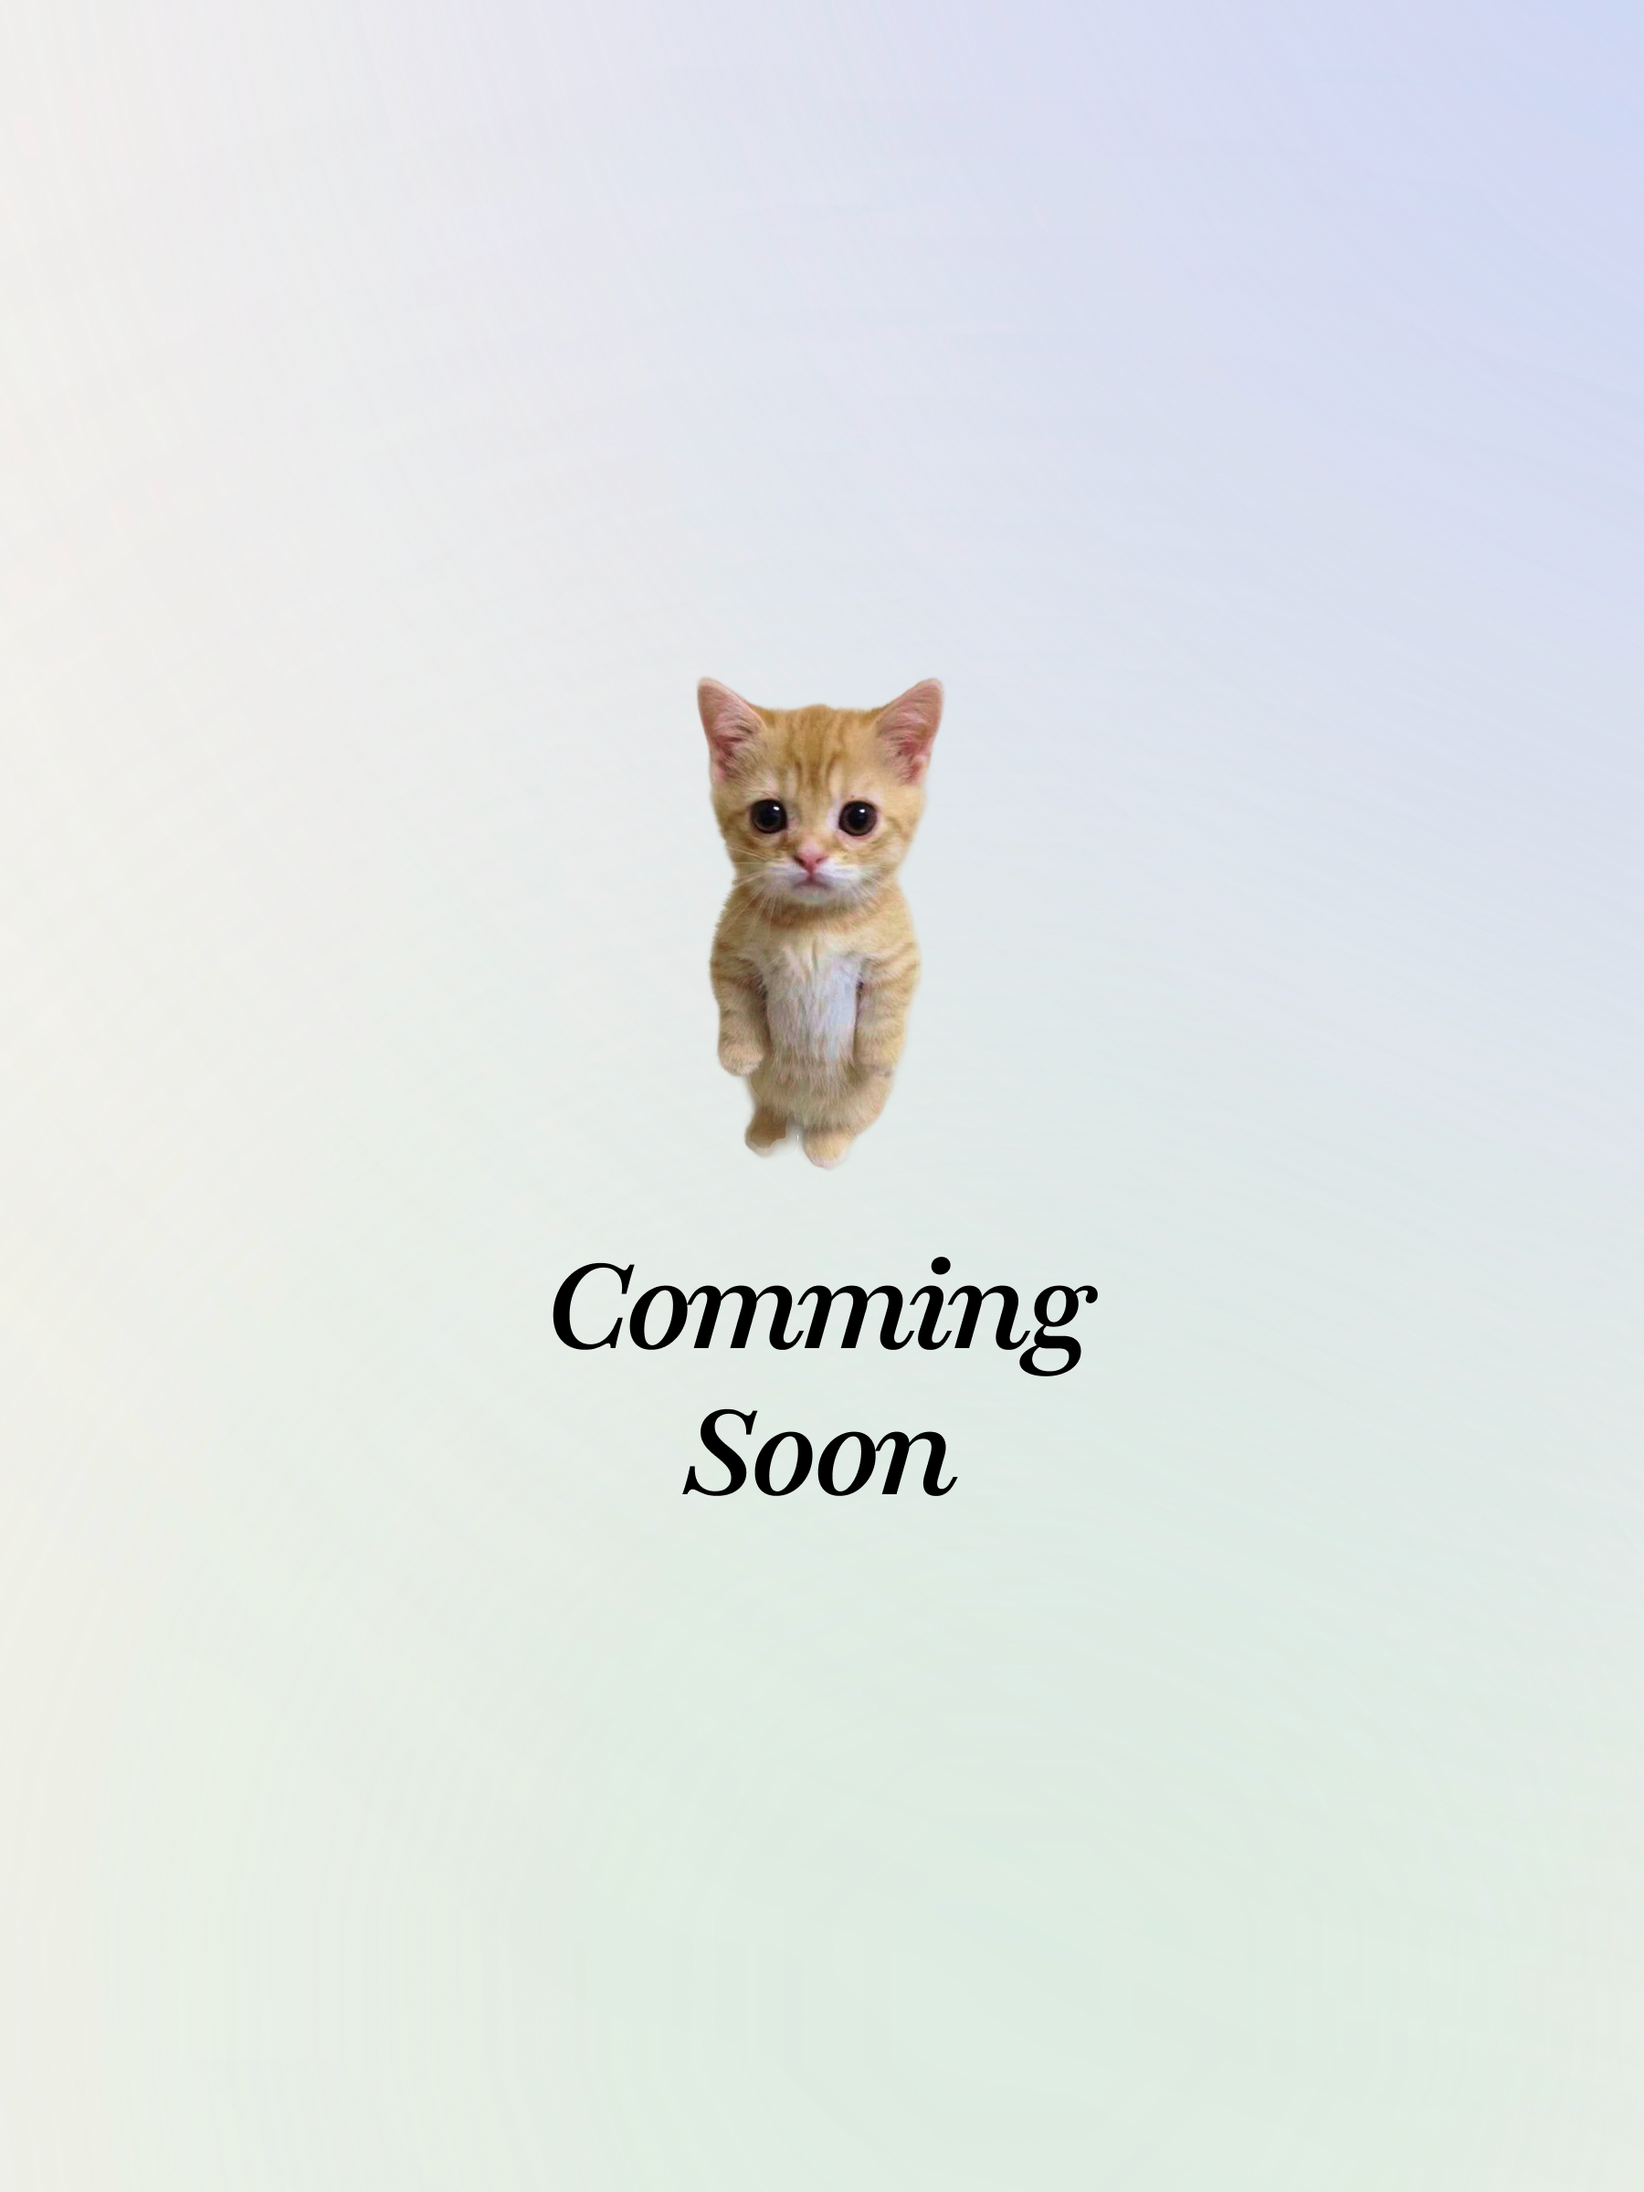
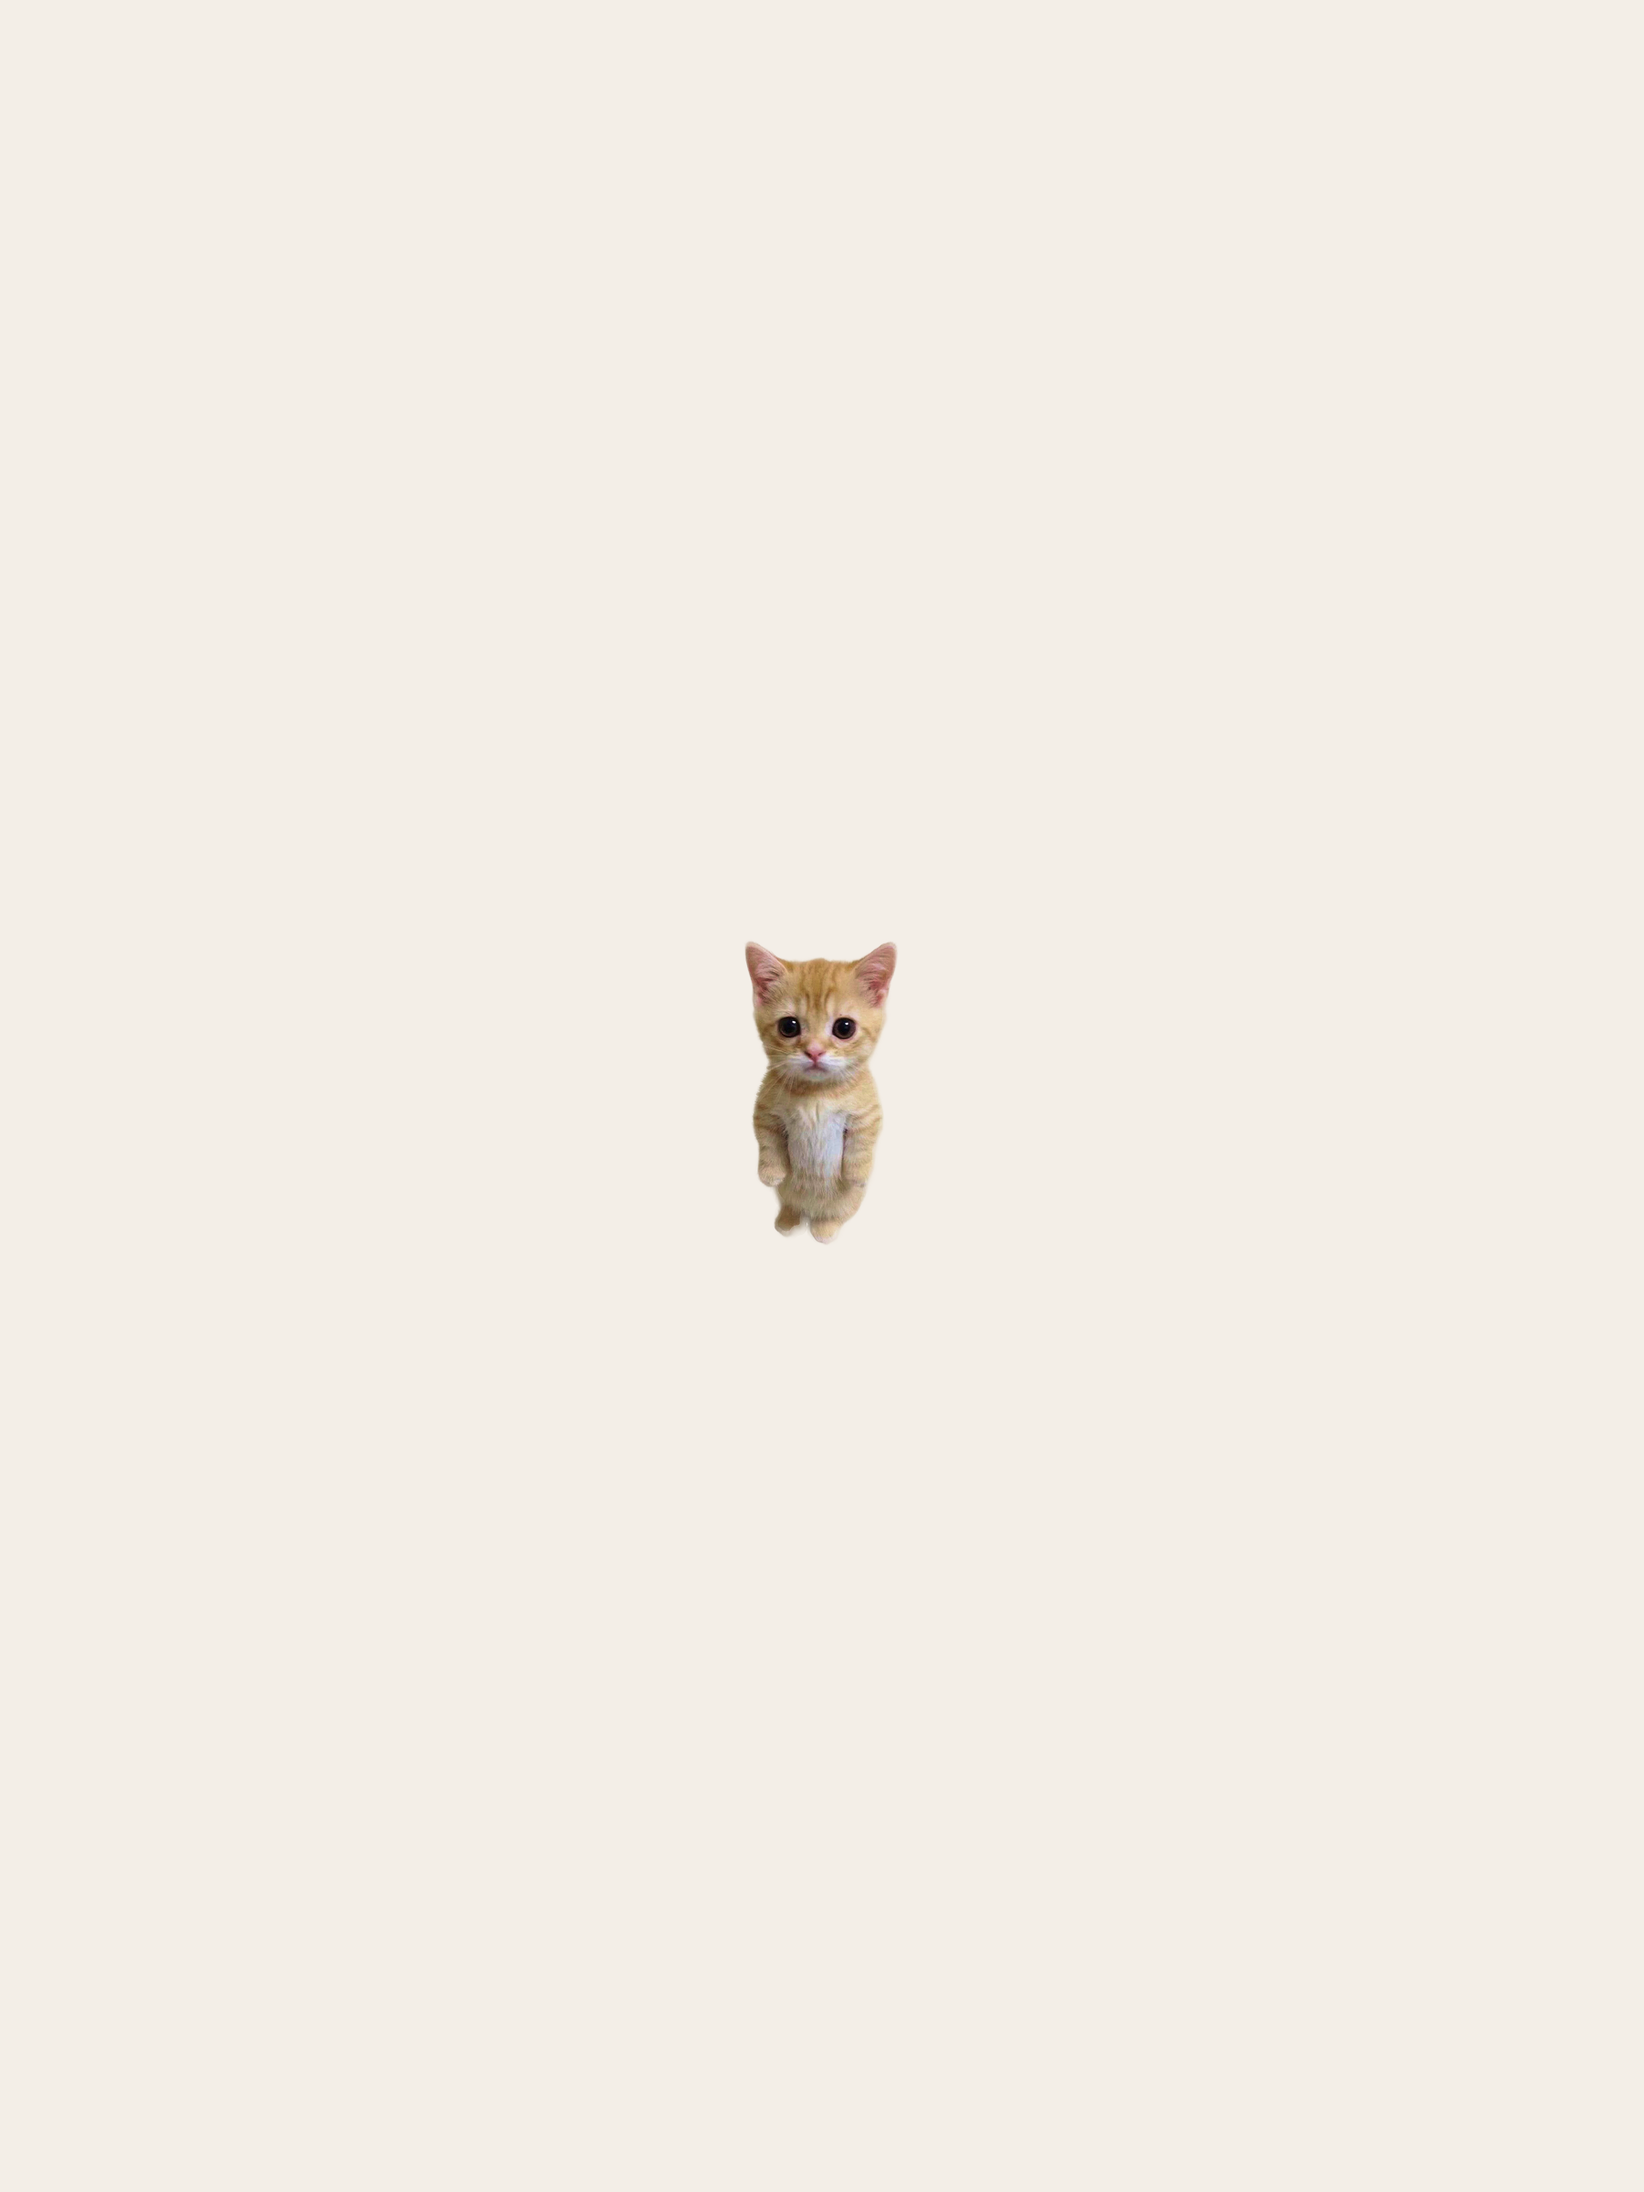
[codex] Replace coming soon thumbnail

Changed region(s): [[0.56, 0.0, 1.0, 0.4375], [0.3422, 0.3125, 0.6533, 0.6875]]

diff --git a/index.html b/index.html
@@ -157,27 +157,27 @@
         <p class="study-name">Fridge App System</p>
       </a>
       <div class="study-card study-card-empty is-disabled" aria-disabled="true">
-        <div class="study-thumb"><img src="assets/studies/study-coming-soon.png?v=20260611" alt="Coming Soon study thumbnail"></div>
+        <div class="study-thumb"><img src="assets/studies/study-coming-soon.png?v=20260611b" alt="Coming Soon study thumbnail"></div>
         <span class="study-kicker">UI Concept</span>
         <p class="study-name">Coming Soon</p>
       </div>
       <div class="study-card study-card-empty is-disabled" aria-disabled="true">
-        <div class="study-thumb"><img src="assets/studies/study-coming-soon.png?v=20260611" alt="Coming Soon study thumbnail"></div>
+        <div class="study-thumb"><img src="assets/studies/study-coming-soon.png?v=20260611b" alt="Coming Soon study thumbnail"></div>
         <span class="study-kicker">Finance</span>
         <p class="study-name">Coming Soon</p>
       </div>
       <div class="study-card study-card-empty is-disabled" aria-disabled="true">
-        <div class="study-thumb"><img src="assets/studies/study-coming-soon.png?v=20260611" alt="Coming Soon study thumbnail"></div>
+        <div class="study-thumb"><img src="assets/studies/study-coming-soon.png?v=20260611b" alt="Coming Soon study thumbnail"></div>
         <span class="study-kicker">Empty</span>
         <p class="study-name">Coming Soon</p>
       </div>
       <div class="study-card study-card-empty is-disabled" aria-disabled="true">
-        <div class="study-thumb"><img src="assets/studies/study-coming-soon.png?v=20260611" alt="Coming Soon study thumbnail"></div>
+        <div class="study-thumb"><img src="assets/studies/study-coming-soon.png?v=20260611b" alt="Coming Soon study thumbnail"></div>
         <span class="study-kicker">Empty</span>
         <p class="study-name">Coming Soon</p>
       </div>
       <div class="study-card study-card-empty is-disabled" aria-disabled="true">
-        <div class="study-thumb"><img src="assets/studies/study-coming-soon.png?v=20260611" alt="Coming Soon study thumbnail"></div>
+        <div class="study-thumb"><img src="assets/studies/study-coming-soon.png?v=20260611b" alt="Coming Soon study thumbnail"></div>
         <span class="study-kicker">Empty</span>
         <p class="study-name">Coming Soon</p>
       </div>

diff --git a/work.html b/work.html
@@ -117,11 +117,11 @@
             <p class="study-name">AI Fridge App<br>Design System</p>
           </a>
           <div class="study-card study-card-empty is-disabled" aria-disabled="true">
-            <div class="study-thumb"><img src="assets/studies/study-coming-soon.png?v=20260611" alt="Coming Soon study thumbnail"></div>
+            <div class="study-thumb"><img src="assets/studies/study-coming-soon.png?v=20260611b" alt="Coming Soon study thumbnail"></div>
             <p class="study-name">Coming Soon</p>
           </div>
           <div class="study-card study-card-empty is-disabled" aria-disabled="true">
-            <div class="study-thumb"><img src="assets/studies/study-coming-soon.png?v=20260611" alt="Coming Soon study thumbnail"></div>
+            <div class="study-thumb"><img src="assets/studies/study-coming-soon.png?v=20260611b" alt="Coming Soon study thumbnail"></div>
             <p class="study-name">Coming Soon</p>
           </div>
         </div>

diff --git a/docs/AGENT_HANDOFF.md b/docs/AGENT_HANDOFF.md
@@ -1,5 +1,10 @@
 # Agent Handoff
 
+## [codex] 2026-06-11 22:20 KST
+
+- Replaced `assets/studies/study-coming-soon.png` from the Claude source thumbnail path.
+- Updated Coming Soon thumbnail cache query parameters from `20260611` to `20260611b`.
+
 ## [codex] 2026-06-11 22:08 KST
 
 - Removed outlines from all Study thumbnails.
